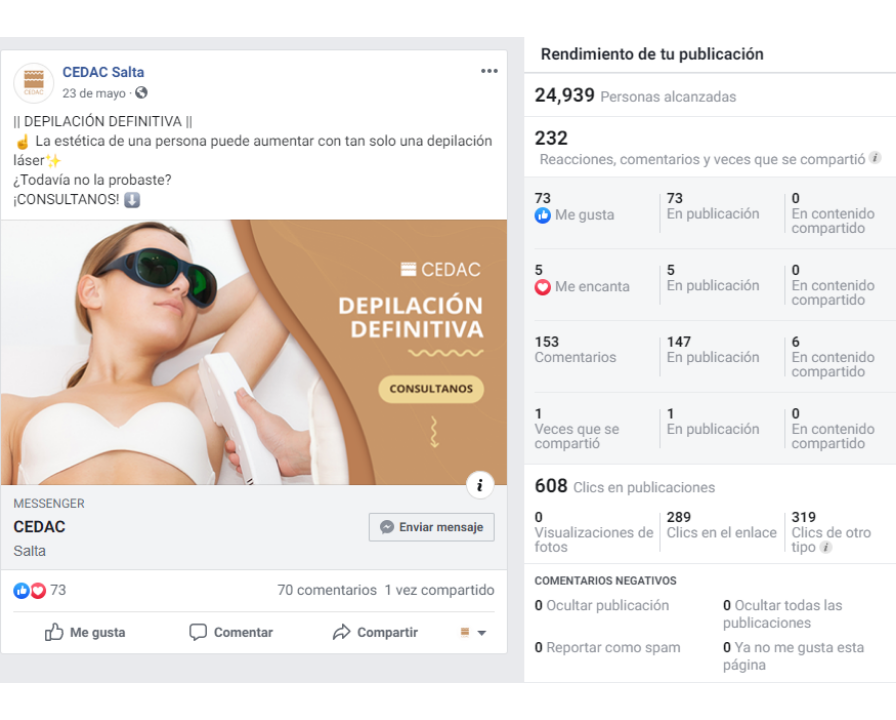
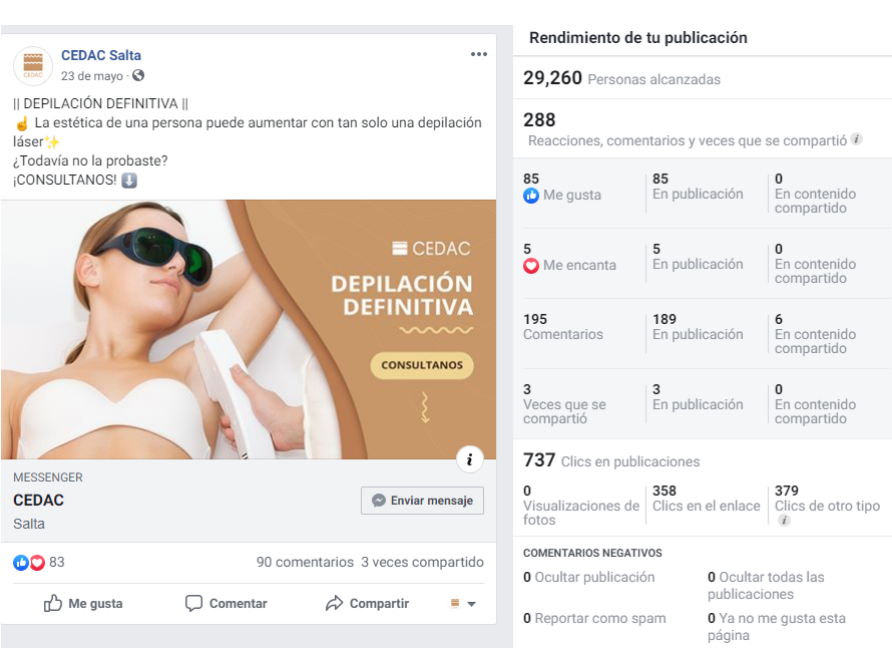
cedac sept

diff --git a/cedac/index.html b/cedac/index.html
@@ -36,7 +36,7 @@
                         <h1 data-animation="fadeInUp">RESULTADOS DE CAMPAÑA </h1></div>
 
                     <div class="portfolio-attributes style1 m-b-20">
-                        <div class="attribute" data-animation="fadeInUp" data-animation-delay="1200"><strong>Periodo:</strong>Agosto</div>
+                        <div class="attribute" data-animation="fadeInUp" data-animation-delay="1200"><strong>Periodo:</strong>Septiembre</div>
                         <div class="attribute" data-animation="fadeInUp" data-animation-delay="1400"><strong>Reporte:</strong>Campaña de promoción</div>
                     </div>
                     <div class="bottom scrolldown-animation">
@@ -58,6 +58,19 @@
                             <h4>Conocer el público: Interacciones</h4>
                             <h4 class="m-b-20">Obtener Consultas (campaña depilación)</h4>
                             <h4 class="m-b-20">Generar posicionamiento de la marca</h4>
+
+                            <div class="icon-box effect medium m-t-50">
+                                <div class="icon icon-box-sm"> <a href="#"><i class="fa fa-comment-o"></i></a> </div>
+                                <div class="counter m-b-0"> <span data-speed="1500" data-refresh-interval="50" data-to="115" data-from="0" data-seperator="true"></span> </div>
+                                <p>Mensajes</p>
+                                
+                                <div class="w-100">
+                                    <h4 class="m-t-0">Depilación: <b>62</b></h4>
+                                    <h4 class="m-t-0">Tatuajes: <b>26</b></h4>
+                                    <h4 class="m-t-0">Nuevos tratamientos: <b>18</b></h4>
+                                    <h4 class="m-t-0">Acné: <b>9</b></h4>
+                                </div>
+                            </div>
                         </div>
                     </div>
                     <div class="col-sm-6">
@@ -76,7 +89,8 @@
                             <li class=""><a href="#may">Mayo</a> </li>
                             <li class=""><a href="#jun">Junio</a> </li>
                             <li class=""><a href="#jul">Julio</a> </li>
-                            <li class="active"><a href="#ago">Agosto</a> </li>
+                            <li class=""><a href="#ago">Agosto</a> </li>
+                            <li class="active"><a href="#sep">Septiembre</a> </li>
                             
                             </ul>
                             <div class="tabs-content">
@@ -209,7 +223,7 @@
                                 </div>
 
                                 <!-- Agosto -->
-                                <div class="tab-pane active m-t-20" id="ago">
+                                <div class="tab-pane m-t-20" id="ago">
                                     <div class="row">
                                         <div class="col-md-15 text-center">
                                             <div class="icon-box effect medium">
@@ -249,6 +263,48 @@
                                         </div>
                                     </div>
                                 </div>
+
+                                <!-- Septiembre -->
+                                <div class="tab-pane active m-t-20" id="sep">
+                                    <div class="row">
+                                        <div class="col-md-15 text-center">
+                                            <div class="icon-box effect medium">
+                                                <div class="icon icon-box-sm"> <a href="#"><i class="fa fa-eye"></i></a> </div>
+                                                <div class="counter bold"> <span data-speed="1000" data-refresh-interval="50" data-to="29846" data-from="0" data-seperator="true"></span> </div>
+                                                <p class="m-b-10"><a href="#" data-toggle="tooltip" data-placement="top" title="Número de personas que vieron tus anuncios por lo menos una vez"><i class="fa fa-info-circle" style="color:white;"></i></a> Alcance</p>
+                                            </div>
+                                        </div>
+                                        <div class="col-md-15 text-center">
+                                            <div class="icon-box effect medium">
+                                                <div class="icon icon-box-sm"> <a href="#"><i class="fa fa-comment-o"></i></a> </div>
+                                                <div class="counter"> <span data-speed="1500" data-refresh-interval="50" data-to="115" data-from="0" data-seperator="true"></span> </div>
+                                                <p>Mensajes</p>
+                                            </div>
+                                        </div>
+                                        <div class="col-md-15 text-center">
+                                            <div class="icon-box effect medium">
+                                                <div class="icon icon-box-sm"> <a href="#"><i class="fa fa-hand-pointer-o"></i></a> </div>
+                                                <div class="counter bold"> <span data-speed="1000" data-refresh-interval="50" data-to="564" data-from="0" data-seperator="true"></span> </div>
+                                                <p class="m-b-10"><a href="#" data-toggle="tooltip" data-placement="top" title="Número total de acciones que las personas realizan en relación con tus anuncios"><i class="fa fa-info-circle" style="color:white;"></i></a> interacciónes</p>
+                                              
+                                            </div>
+                                        </div>
+                                        <div class="col-md-15 text-center">
+                                            <div class="icon-box effect medium">
+                                                <div class="icon icon-box-sm"> <a href="#"><i class="fa fa-desktop"></i></a> </div>
+                                                <div class="counter bold"> <span data-speed="1000" data-refresh-interval="50" data-to="1356" data-from="0" data-seperator="true"></span> </div>
+                                                <p>Visitas a la web</p>
+                                            </div>
+                                        </div>
+                                        <div class="col-md-15 text-center">
+                                            <div class="icon-box effect medium">
+                                                <div class="icon icon-box-sm"> <a href="#"><i class="fa fa-mouse-pointer"></i></a> </div>
+                                                <div class="counter bold"> <span data-speed="1000" data-refresh-interval="50" data-to="743" data-from="0" data-seperator="true"></span> </div>
+                                                <p>Clics en turnos online</p>
+                                            </div>
+                                        </div>
+                                    </div>
+                                </div>
                                 
                            
                             </div>
@@ -275,7 +331,7 @@
                             <img src="images/cliente/captura1.png" alt="">
                             <img src="images/cliente/captura2.png" alt="">
                             <img src="images/cliente/captura3.png" alt="">
-                            <!-- <img src="images/cliente/captura4.jpg" alt=""> -->
+                            <img src="images/cliente/captura4.png" alt="">
                             <!-- <img src="images/cliente/captura5.png" alt=""> -->
                         </div>   
                     </div>
